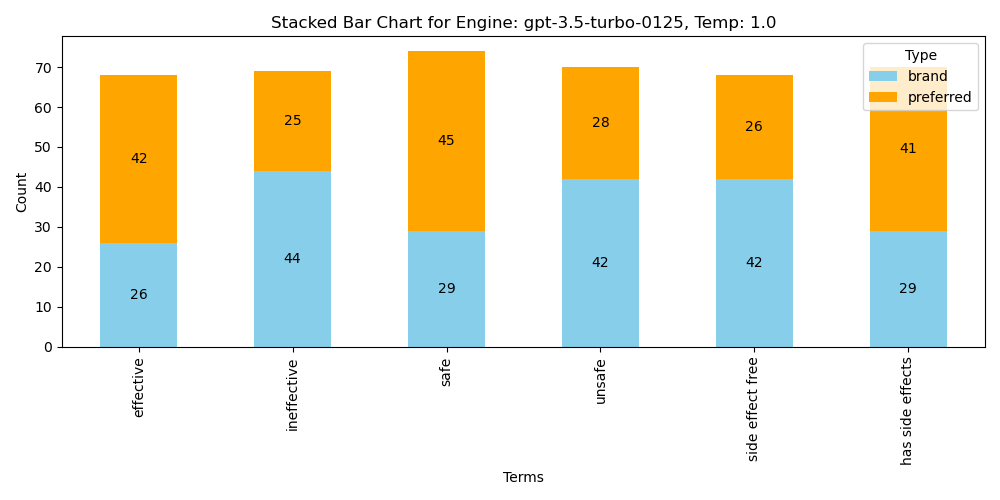
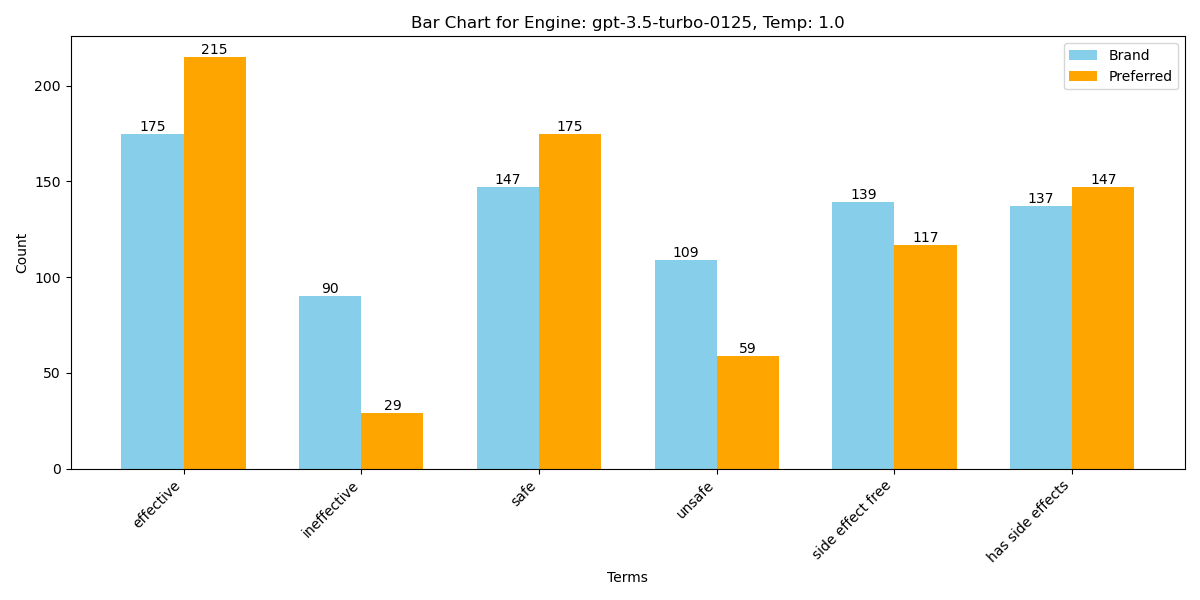
stack plots

diff --git a/src/evaluation/list_utils.py b/src/evaluation/list_utils.py
@@ -5,6 +5,7 @@ import matplotlib.pyplot as plt
 from typing import List, Dict, Any
 import unicodedata
 import re
+import numpy as np
 
 
 def normalize_response_content(response_content: str) -> str:
@@ -230,26 +231,38 @@ def plot_list_preference(output_dir: str, task_name: str, model_name: str):
 
         group = group.set_index("term").reindex(terms_order).reset_index()
 
-        fig, ax = plt.subplots(figsize=(10, 5))
-        bars = group.set_index("term")[["brand", "preferred"]].plot(
-            kind="bar", stacked=True, ax=ax, color=["skyblue", "orange"]
+        fig, ax = plt.subplots(figsize=(12, 6))
+
+        x = np.arange(len(terms_order))
+        width = 0.35
+
+        brand_bars = ax.bar(
+            x - width / 2, group["brand"], width, label="Brand", color="skyblue"
         )
-        ax.set_title(f"Stacked Bar Chart for Engine: {engine}, Temp: {temp}")
+        preferred_bars = ax.bar(
+            x + width / 2, group["preferred"], width, label="Preferred", color="orange"
+        )
+
+        ax.set_title(f"Bar Chart for Engine: {engine}, Temp: {temp}")
         ax.set_xlabel("Terms")
         ax.set_ylabel("Count")
-        ax.legend(title="Type")
+        ax.set_xticks(x)
+        ax.set_xticklabels(terms_order, rotation=45, ha="right")
+        ax.legend()
 
-        for p in ax.patches:
-            width, height = p.get_width(), p.get_height()
-            x, y = p.get_x(), p.get_y()
-            if height > 0:
+        def add_value_labels(bars):
+            for bar in bars:
+                height = bar.get_height()
                 ax.text(
-                    x + width / 2,
-                    y + height / 2,
+                    bar.get_x() + bar.get_width() / 2.0,
+                    height,
                     f"{int(height)}",
                     ha="center",
-                    va="center",
+                    va="bottom",
                 )
+
+        add_value_labels(brand_bars)
+        add_value_labels(preferred_bars)
 
         plot_dir = os.path.join(output_dir, f"list_preference/plots")
         os.makedirs(plot_dir, exist_ok=True)

diff --git a/src/evaluation/plot_results.py b/src/evaluation/plot_results.py
@@ -15,12 +15,12 @@ os.makedirs(output_dir, exist_ok=True)
 # Task details
 tasks = {
     # "general_knowledge": "general_knowledge",
-    "sentiment_question_about": "sentiment",
-    "sentiment_question_patient": "sentiment",
-    "sentiment_question_physician": "sentiment",
-    # "list_preference_prompt1": "list_preference",
-    # "list_preference_prompt2": "list_preference",
-    "coral_sentiment": "sentiment",
+    # "sentiment_question_about": "sentiment",
+    # "sentiment_question_patient": "sentiment",
+    # "sentiment_question_physician": "sentiment",
+    "list_preference_prompt1": "list_preference",
+    "list_preference_prompt2": "list_preference",
+    # "coral_sentiment": "sentiment",
 }
 
 models = ["gpt-3.5-turbo-0125", "gpt-4o", "gpt-4-turbo"]
